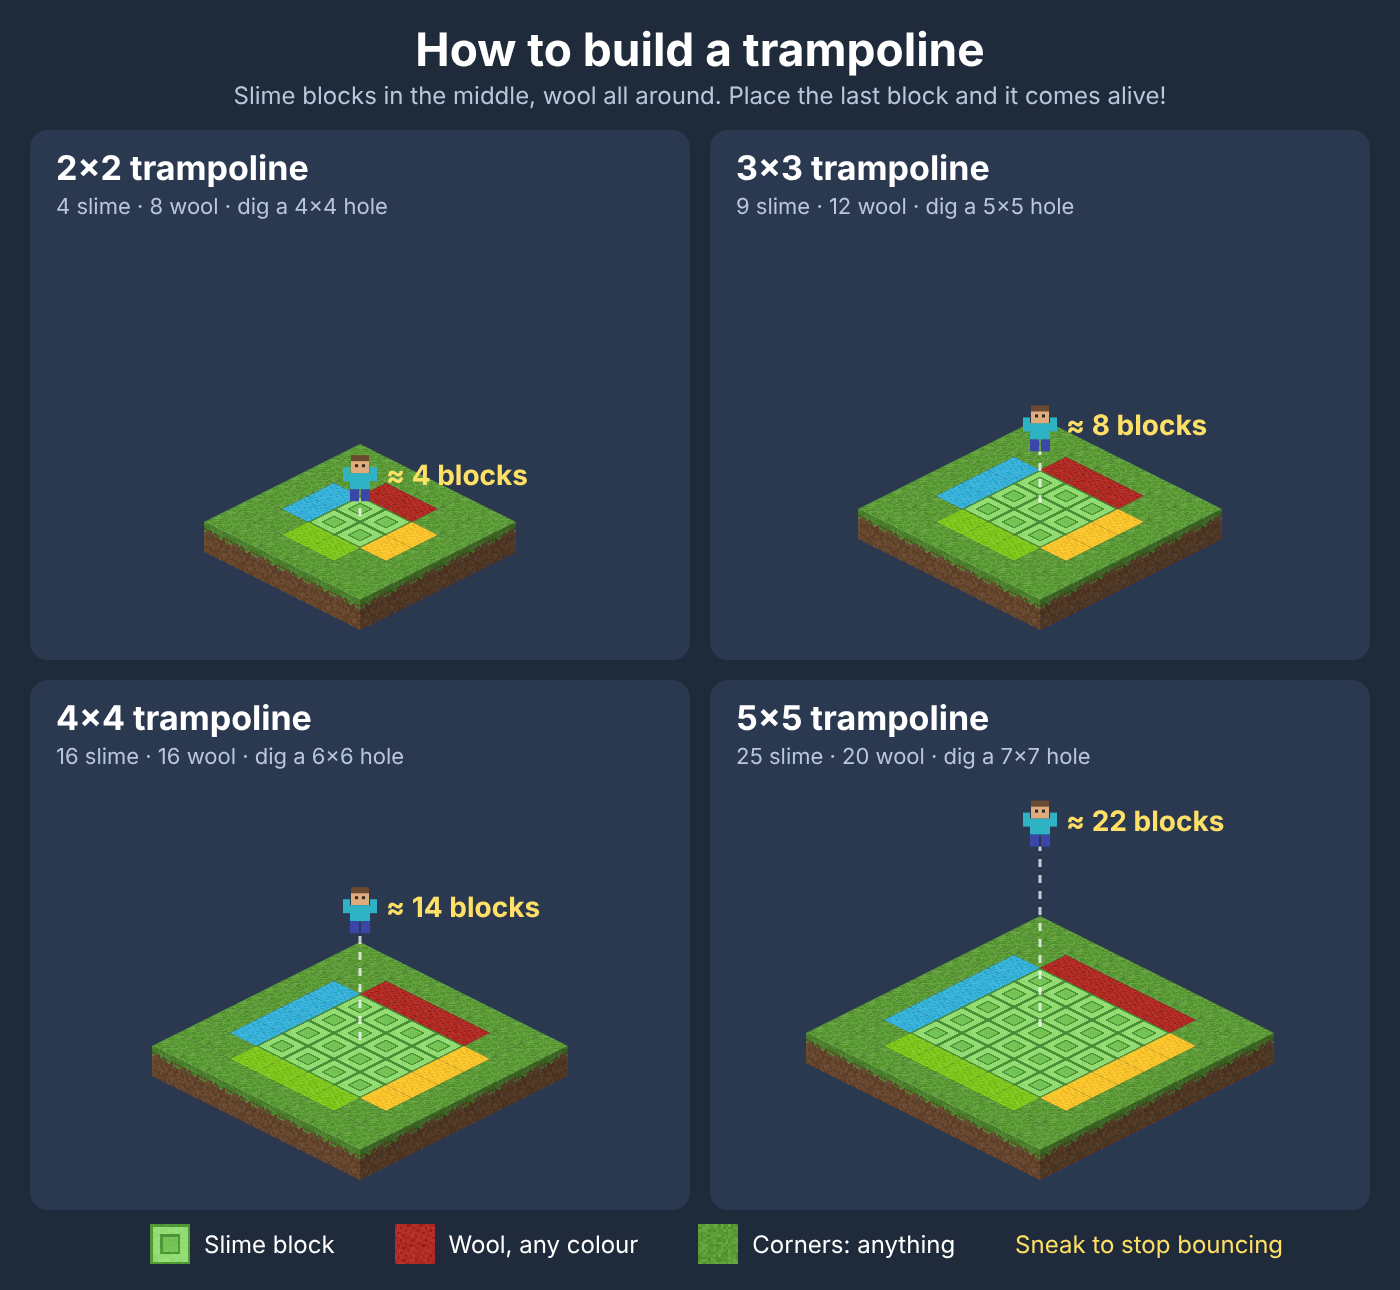
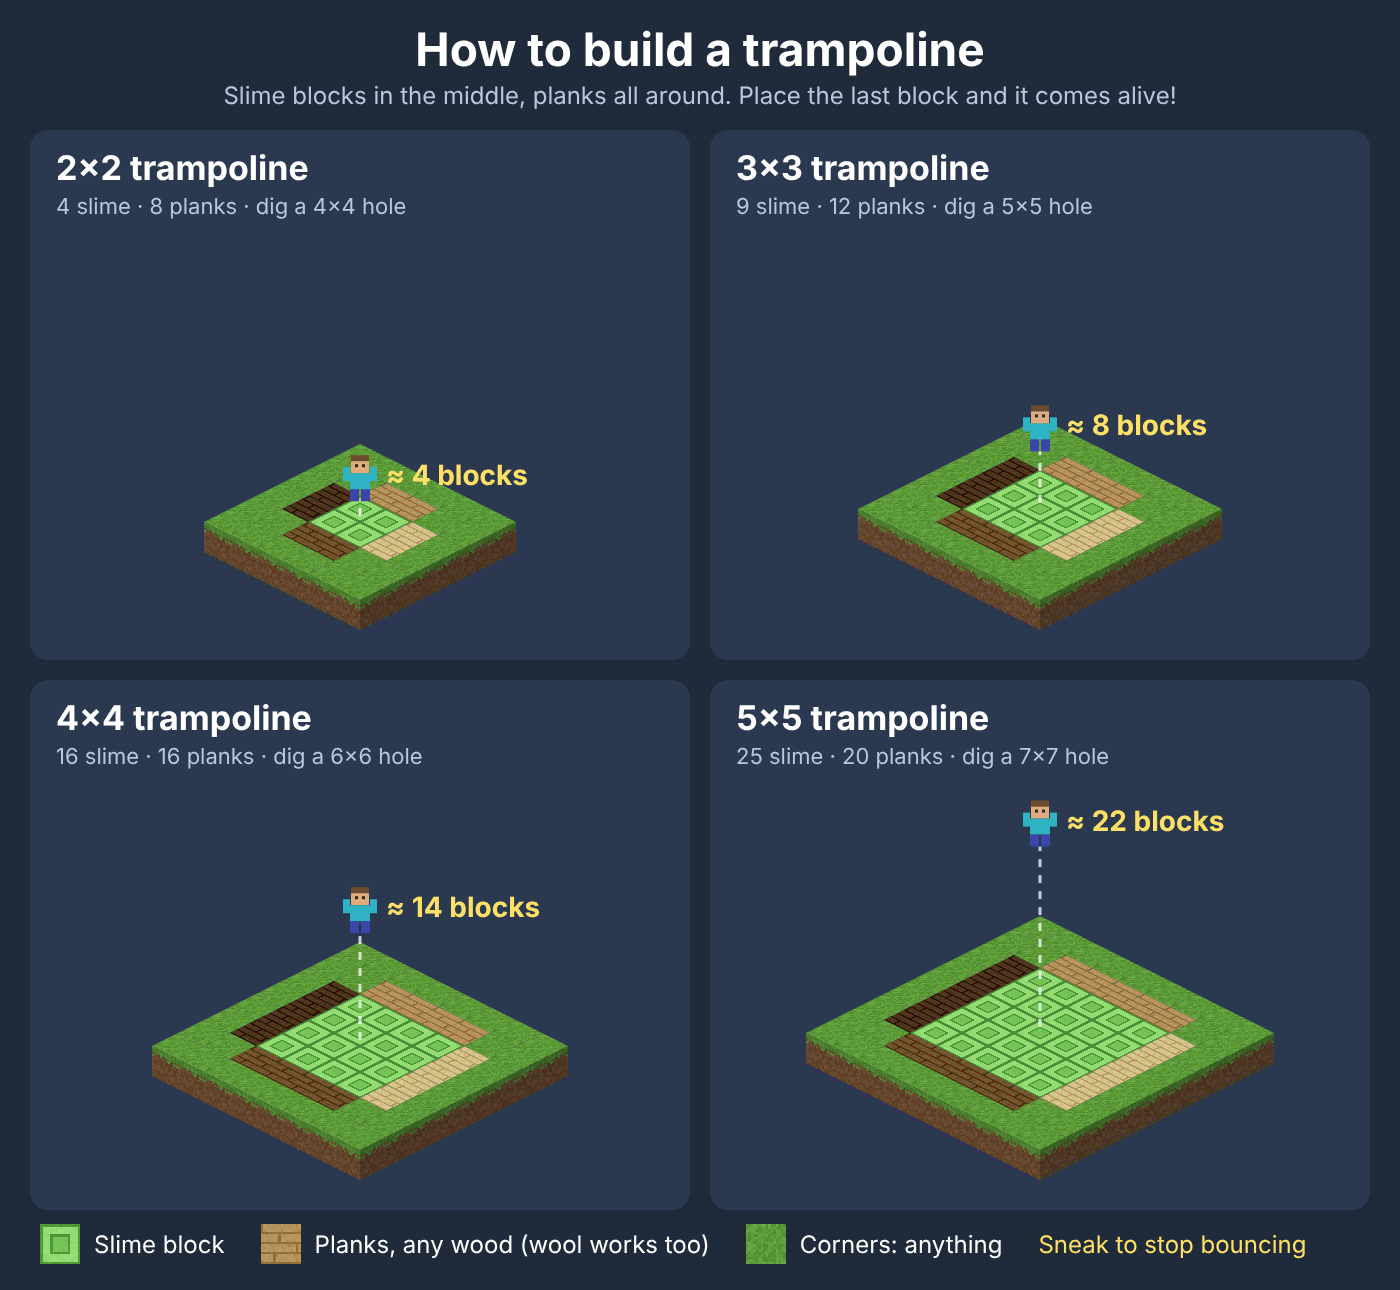
Accept planks as the trampoline edge, alongside wool
Any planks (oak, birch, cherry, bamboo, crimson, ...) now count as edge
blocks, and they can be mixed with wool, so a trampoline needs nothing
more than a tree and the slime. The starter chest gives four kinds of
planks instead of wool, and the pattern illustration shows planks.

Claude-Session: https://claude.ai/code/session_01N9xRSJo6Byw19tiBJUbTE9

diff --git a/addons/trampoline/behavior_pack/scripts/trampoline.js b/addons/trampoline/behavior_pack/scripts/trampoline.js
@@ -1,9 +1,9 @@
 // The trampoline rules. Nothing in here talks to Minecraft, so tests can run it on a computer.
 //
-// A trampoline is a square of slime blocks with a ring of wool around it, all on the same level:
+// A trampoline is a square of slime blocks with a wooden edge around it, all on the same level:
 //
 //     . W W W .        S = slime block (the bouncy bed)
-//     W S S S W        W = wool, any colour (the padded edge)
+//     W S S S W        W = planks of any wood, or wool of any colour (the edge)
 //     W S S S W        . = corners, can be anything
 //     W S S S W
 //     . W W W .
@@ -26,7 +26,8 @@ const SIZES_BIGGEST_FIRST = Object.keys(SIZES).map(Number).sort((a, b) => b - a)
 export const isBed = (typeId) => typeId === "minecraft:slime";
 
 /** @param {string | undefined} typeId */
-export const isEdge = (typeId) => typeId?.endsWith("_wool") ?? false;
+// Planks are easy to get from any tree. Wool still works for colourful trampolines.
+export const isEdge = (typeId) => (typeId?.endsWith("_planks") || typeId?.endsWith("_wool")) ?? false;
 
 /**
  * @typedef {(x: number, y: number, z: number) => string | undefined} GetType
@@ -105,18 +106,18 @@ export function isOverBed(t, x, z) {
   return x >= t.x && x < t.x + t.size && z >= t.z && z < t.z + t.size;
 }
 
-const WOOL_COLOURS = ["red", "yellow", "lime", "light_blue"];
+const WOODS = ["oak", "birch", "spruce", "dark_oak"];
 
 /**
- * What's in the starter chest: enough slime and wool for the biggest trampoline, and a shovel to dig the hole.
+ * What's in the starter chest: enough slime and planks for the biggest trampoline, and a shovel to dig the hole.
  * @returns {{ item: string, amount: number }[]}
  */
 export function starterKit() {
   const biggest = Math.max(...Object.keys(SIZES).map(Number));
   return [
     { item: "minecraft:slime", amount: biggest * biggest },
-    // One colour per side of the edge.
-    ...WOOL_COLOURS.map((colour) => ({ item: `minecraft:${colour}_wool`, amount: biggest })),
+    // One kind of wood per side of the edge.
+    ...WOODS.map((wood) => ({ item: `minecraft:${wood}_planks`, amount: biggest })),
     { item: "minecraft:iron_shovel", amount: 1 },
   ];
 }

diff --git a/addons/trampoline/behavior_pack/scripts/starter-chest.js b/addons/trampoline/behavior_pack/scripts/starter-chest.js
@@ -35,12 +35,12 @@ world.afterEvents.playerSpawn.subscribe(({ player, initialSpawn }) => {
     spot.dimension.setBlockType(spot.location, "minecraft:chest");
     const chest = spot.getComponent("minecraft:inventory")?.container;
     for (const item of items) chest?.addItem(item);
-    player.sendMessage("§aA chest with §etrampoline blocks§a appeared next to you! Build slime with a wool edge.");
+    player.sendMessage("§aA chest with §etrampoline blocks§a appeared next to you! Build slime with a wooden edge.");
   } else {
     // Nowhere flat to put a chest (in water, say): straight into their pockets instead.
     const inventory = player.getComponent("minecraft:inventory")?.container;
     for (const item of items) inventory?.addItem(item);
-    player.sendMessage("§aYou got §etrampoline blocks§a! Build slime with a wool edge.");
+    player.sendMessage("§aYou got §etrampoline blocks§a! Build slime with a wooden edge.");
   }
   player.setDynamicProperty(GOT_KIT, true);
 });

diff --git a/addons/trampoline/behavior_pack/scripts/main.js b/addons/trampoline/behavior_pack/scripts/main.js
@@ -37,7 +37,7 @@ function typeAt(dimension) {
   };
 }
 
-// Placing the last slime or wool block turns the pattern into a trampoline, like lighting a portal.
+// Placing the last slime or edge block turns the pattern into a trampoline, like lighting a portal.
 world.afterEvents.playerPlaceBlock.subscribe(({ block, player }) => {
   if (!isBed(block.typeId) && !isEdge(block.typeId)) return;
 
@@ -66,7 +66,7 @@ world.afterEvents.playerPlaceBlock.subscribe(({ block, player }) => {
   );
 });
 
-// Breaking any slime or wool block of a trampoline turns it back into normal blocks.
+// Breaking any slime or edge block of a trampoline turns it back into normal blocks.
 world.afterEvents.playerBreakBlock.subscribe(({ block, player }) => {
   const { x, y, z } = block.location;
   const dimension = block.dimension.id;

diff --git a/addons/trampoline/README.md b/addons/trampoline/README.md
@@ -10,7 +10,7 @@ Bigger trampolines bounce you higher.
 The first time you join a world with this mod, a chest appears next to you with:
 
 - 25 slime blocks
-- 20 wool, in red, yellow, lime, and light blue
+- 20 planks: oak, birch, spruce, and dark oak
 - an iron shovel to dig the hole
 
 That's enough for the biggest 5×5 trampoline.
@@ -21,13 +21,14 @@ If there's no flat spot next to you, the blocks go straight into your inventory.
 
 1. Dig a hole one block deep. For a 3×3 trampoline, make it 5×5.
 2. Fill the middle with **slime blocks** in a square.
-3. Put **wool** (any colour, mix them!) all around the slime.
-   The four corners can be anything: wool, dirt, or nothing.
+3. Put **planks** all around the slime. Any wood works, and you can mix them.
+   Want it colourful? **Wool** works too, in any colour, mixed with planks or not.
+   The four corners can be anything: planks, dirt, or nothing.
 4. When you place the last block, you hear a ding and see sparkles. It's ready!
 
 ```text
     . W W W .        S = slime block
-    W S S S W        W = wool, any colour
+    W S S S W        W = planks (any wood) or wool
     W S S S W        . = corner, anything
     W S S S W
     . W W W .
@@ -46,5 +47,5 @@ If there's no flat spot next to you, the blocks go straight into your inventory.
 
 - Jump on and you keep bouncing. **Sneak** to stop.
 - No fall damage for 10 seconds after a bounce, even if you fly off the side.
-- Break any slime or wool block and it stops being a trampoline. Put it back to rebuild it.
+- Break any slime or edge block and it stops being a trampoline. Put it back to rebuild it.
 - Want different heights? Change `strength` in [`behavior_pack/scripts/trampoline.js`](./behavior_pack/scripts/trampoline.js), then run `npm test` to see the new heights.

diff --git a/README.md b/README.md
@@ -8,7 +8,7 @@ Our own Minecraft Bedrock add-ons, plus a private server to play them on togethe
 | --- | --- | --- |
 | [`welcome`](./addons/welcome) | Says hi when you join | Code: 10 lines of JavaScript |
 | [`rainbow-cookie`](./addons/rainbow-cookie) | A new cookie that makes you fast and bouncy. Craft it from a cookie, sugar, and glow berries. | Item + picture + recipe + a little code |
-| [`trampoline`](./addons/trampoline) | Build slime blocks with a wool edge, like a portal, and get a trampoline. Bigger ones bounce higher. You get the blocks in a chest when you first join. | Code, with tests |
+| [`trampoline`](./addons/trampoline) | Build slime blocks with a wooden edge, like a portal, and get a trampoline. Bigger ones bounce higher. You get the blocks in a chest when you first join. | Code, with tests |
 | [`party-commands`](./addons/party-commands) | `/function party` and `/function sunny`, and 9 dirt crafts into 1 diamond | No code: commands and a recipe |
 
 Each add-on is a folder in `addons/` with up to two packs:
